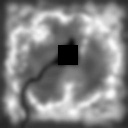
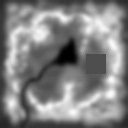
corrected terrain

Changed region(s): [[0.6562, 0.4062, 0.8438, 0.5938], [0.4375, 0.3438, 0.625, 0.5312], [0.4375, 0.3438, 0.5312, 0.4375]]

diff --git a/project/MyTerrain.js b/project/MyTerrain.js
@@ -48,10 +48,13 @@ export class MyTerrain extends CGFobject {
         scene.enableTextures(true);
         
         scene.testShaders = [new CGFshader(scene.gl, "shaders/terrain.vert", "shaders/terrain.frag")];
-        scene.testShaders[0].setUniformsValues({uSampler1: new CGFtexture(scene, "images/altimetry.png")});
-        scene.testShaders[0].setUniformsValues({uSampler2: new CGFtexture(scene, "images/heightmap_modified.jpg")});
-        scene.testShaders[0].setUniformsValues({uSampler3: new CGFtexture(scene, "images/terrain.jpg")});
-        scene.testShaders[0].bind();
+        scene.testShaders[0].setUniformsValues({uSampler1: 1});
+        scene.testShaders[0].setUniformsValues({uSampler2: 2});
+        scene.testShaders[0].setUniformsValues({uSampler3: 3});
+        this.texture1 = new CGFtexture(scene, "images/altimetry.png");
+        this.texture2 = new CGFtexture(scene, "images/heightmap_modified.jpg");
+        this.texture3 = new CGFtexture(scene, "images/terrain.jpg");
+        
 
         scene.pushMatrix();
     }
@@ -60,7 +63,10 @@ export class MyTerrain extends CGFobject {
         this.scene.pushMatrix();
         this.scene.translate(0,-100,0);
         this.scene.scale(400,400,400);
-        this.scene.rotate(-Math.PI/2.0,1,0,0);   
+        this.scene.rotate(-Math.PI/2.0,1,0,0);
+        this.texture1.bind(1);
+        this.texture2.bind(2);
+        this.texture3.bind(3);
         this.terrainMaterial1.apply();
         this.plane.display();
         this.scene.popMatrix();

diff --git a/project/MyPanorama.js b/project/MyPanorama.js
@@ -33,8 +33,8 @@ export class MyPanorama extends CGFobject {
 			1,0,0,0,
 			0,1,0,0,
 			0,0,1,0,
-			//this.scene.camera.position[0],this.scene.camera.position[1],this.scene.camera.position[2],1
-			0,0,0,1
+			this.scene.camera.position[0],this.scene.camera.position[1],this.scene.camera.position[2],1
+			//0,0,0,1
 		];
 
 		var scalepanorama = [

diff --git a/project/MyScene.js b/project/MyScene.js
@@ -151,7 +151,6 @@ this.sphere_appearance.setTextureWrap('REPEAT', 'REPEAT');
     //Draw Terrain
     if (this.selectedObject == 3){
       this.setActiveShader(this.testShaders[0]);
-      this.egg.display();
       this.objects[this.selectedObject].display();
 
     }
